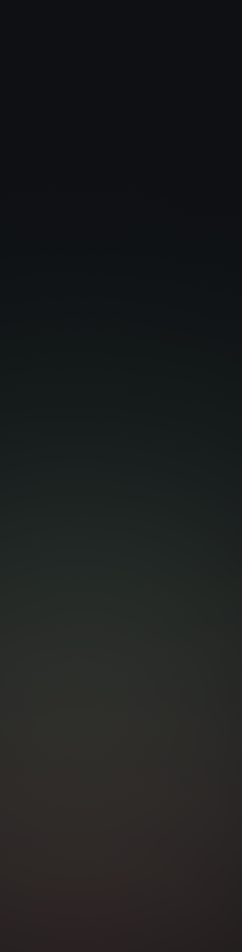
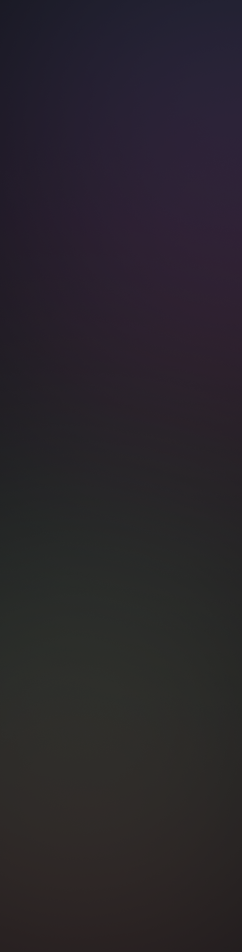
tables

Changed region(s): [[0.0868, 0.0, 1.0, 0.4265]]

diff --git a/dashboard-admin.html b/dashboard-admin.html
@@ -13,9 +13,9 @@
 </head>
 
 <body>
-
+  <!-- main start -->
   <div class="main">
-
+    <!-- panel start -->
     <div class="panel">
       <div class="panel__inner">
         <div class="logo">
@@ -106,7 +106,8 @@
         </div>
       </div>
     </div>
-
+    <!-- panel end -->
+    <!-- sidebar start -->
     <div class="sidebar _admin">
       <div class="sidebar__inner">
         <div class="sidebar__inner-profile">
@@ -215,9 +216,10 @@
         </div>
       </div>
     </div>
-
+    <!-- sidebar end -->
+    <!-- main__content start -->
     <div class="main__content _admin">
-
+      <!-- dashhboard start -->
       <section class="dashboard">
         <div class="autoContainer _lg">
           <div class="dashboard__inner">
@@ -320,6 +322,10 @@
               </div>
             </div>
             <div class="dashboardTable">
+              <div class="bubles">
+                <div class="bubles__shape _pink"></div>
+                <div class="bubles__shape _yellow"></div>
+              </div>
               <div class="dashboardTable__container">
                 <h5 class="_extra-sm">
                   Portals Overview
@@ -665,13 +671,15 @@
           </div>
         </div>
       </section>
-
-
+      <!-- dashhboard end -->
       <div class="main__content-bg">
         <img src="./images/dashboard/admin-bg.png" alt="">
       </div>
     </div>
+    <!-- main__content end -->
+
   </div>
+  <!-- main end -->
 
   <script src="./js/customSelect.js">
 

diff --git a/dashboard.html b/dashboard.html
@@ -13,9 +13,9 @@
 </head>
 
 <body>
-
+  <!-- main start -->
   <div class="main">
-
+    <!-- sidebar start -->
     <div class="sidebar">
       <div class="sidebar__inner">
         <div class="logo logo--lg">
@@ -115,9 +115,10 @@
         </div>
       </div>
     </div>
-
+    <!-- sidebar end -->
+    <!-- main__content start -->
     <div class="main__content">
-
+      <!-- dashboard start -->
       <section class="dashboard">
         <div class="autoContainer">
           <div class="dashboard__inner">
@@ -307,12 +308,14 @@
           </div>
         </div>
       </section>
+      <!-- dashboard end -->
       <div class="main__content-bg">
         <img src="./images/dashboard/dashboard-bg.png" alt="">
       </div>
     </div>
-
+    <!-- main__content end -->
   </div>
+  <!-- main end -->
 
   <script src="./js/customSelect.js">
 

diff --git a/dahboard-agency.html b/dahboard-agency.html
@@ -14,8 +14,9 @@
 
 <body>
 
+  <!-- main start -->
   <div class="main">
-
+    <!-- sidebar start -->
     <div class="sidebar">
       <div class="sidebar__inner">
         <div class="logo logo--lg">
@@ -115,9 +116,10 @@
         </div>
       </div>
     </div>
-
+    <!-- sidebar end -->
+    <!-- main__content start -->
     <div class="main__content">
-
+      <!-- dashboard start -->
       <section class="dashboard">
         <div class="autoContainer">
           <div class="dashboard__inner">
@@ -281,12 +283,14 @@
           </div>
         </div>
       </section>
+      <!-- dashboard end -->
       <div class="main__content-bg">
         <img src="./images/dashboard/dashboard-bg.png" alt="">
       </div>
     </div>
-
+    <!-- main__content end -->
   </div>
+  <!-- main end -->
 
   <script src="./js/customSelect.js">
 

diff --git a/dashboard-partner.html b/dashboard-partner.html
@@ -14,8 +14,9 @@
 
 <body>
 
+  <!--main start  -->
   <div class="main">
-
+    <!--sidebar start  -->
     <div class="sidebar">
       <div class="sidebar__inner">
         <div class="logo logo--lg">
@@ -115,9 +116,10 @@
         </div>
       </div>
     </div>
-
+    <!--sidebar end  -->
+    <!--main__content start  -->
     <div class="main__content">
-
+      <!--dashboard start  -->
       <section class="dashboard">
         <div class="autoContainer">
           <div class="dashboard__inner">
@@ -247,12 +249,14 @@
           </div>
         </div>
       </section>
+      <!--dashboard end  -->
       <div class="main__content-bg">
         <img src="./images/dashboard/dashboard-bg.png" alt="">
       </div>
     </div>
-
+    <!--main__content end  -->
   </div>
+  <!--main end  -->
 
   <script src="./js/customSelect.js">
 

diff --git a/css/main.css b/css/main.css
@@ -2981,6 +2981,7 @@ svg {
   background-color: #0e1013;
   border-radius: 27px;
   overflow: hidden;
+  position: relative;
 }
 .dashboardTable__container {
   display: -webkit-box;
@@ -3028,6 +3029,22 @@ svg {
 }
 .dashboardTable__container h5 {
   font-weight: 600;
+}
+.dashboardTable .bubles {
+  z-index: 2;
+}
+.dashboardTable .bubles__shape {
+  opacity: 0.15;
+}
+.dashboardTable .bubles__shape._pink {
+  top: -200px;
+  right: -200px;
+}
+.dashboardTable .bubles__shape._yellow {
+  top: unset;
+  right: unset;
+  bottom: -20%;
+  left: -200px;
 }
 .dashboardService {
   position: relative;
@@ -3250,6 +3267,8 @@ svg {
   width: 100%;
   font-size: 12px;
   border-collapse: collapse;
+  position: relative;
+  z-index: 2;
 }
 .table thead {
   position: sticky;

diff --git a/css/components/2-layout/dashboard.scss b/css/components/2-layout/dashboard.scss
@@ -246,6 +246,7 @@
     background-color: $black-10;
     border-radius: 27px;
     overflow: hidden;
+    position: relative;
     &__container {
       display: flex;
       align-items: center;
@@ -281,6 +282,22 @@
       }
       h5 {
         font-weight: 600;
+      }
+    }
+    .bubles {
+      z-index: 2;
+      &__shape {
+        opacity: 0.15;
+        &._pink {
+          top: -200px;
+          right: -200px;
+        }
+        &._yellow {
+          top: unset;
+          right: unset;
+          bottom: -20%;
+          left: -200px;
+        }
       }
     }
   }
@@ -466,6 +483,8 @@
   width: 100%;
   font-size: 12px;
   border-collapse: collapse;
+  position: relative;
+  z-index: 2;
   thead {
     position: sticky;
     top: 0;

diff --git a/login.html b/login.html
@@ -13,8 +13,8 @@
 </head>
 
 <body>
+  <!-- main start -->
   <div class="main">
-
     <!-- login start -->
     <section class="login">
       <div class="autoContainer">
@@ -106,8 +106,8 @@
       </div>
     </section>
     <!-- login end -->
-
   </div>
+  <!-- main end -->
 
   <script></script>
 
